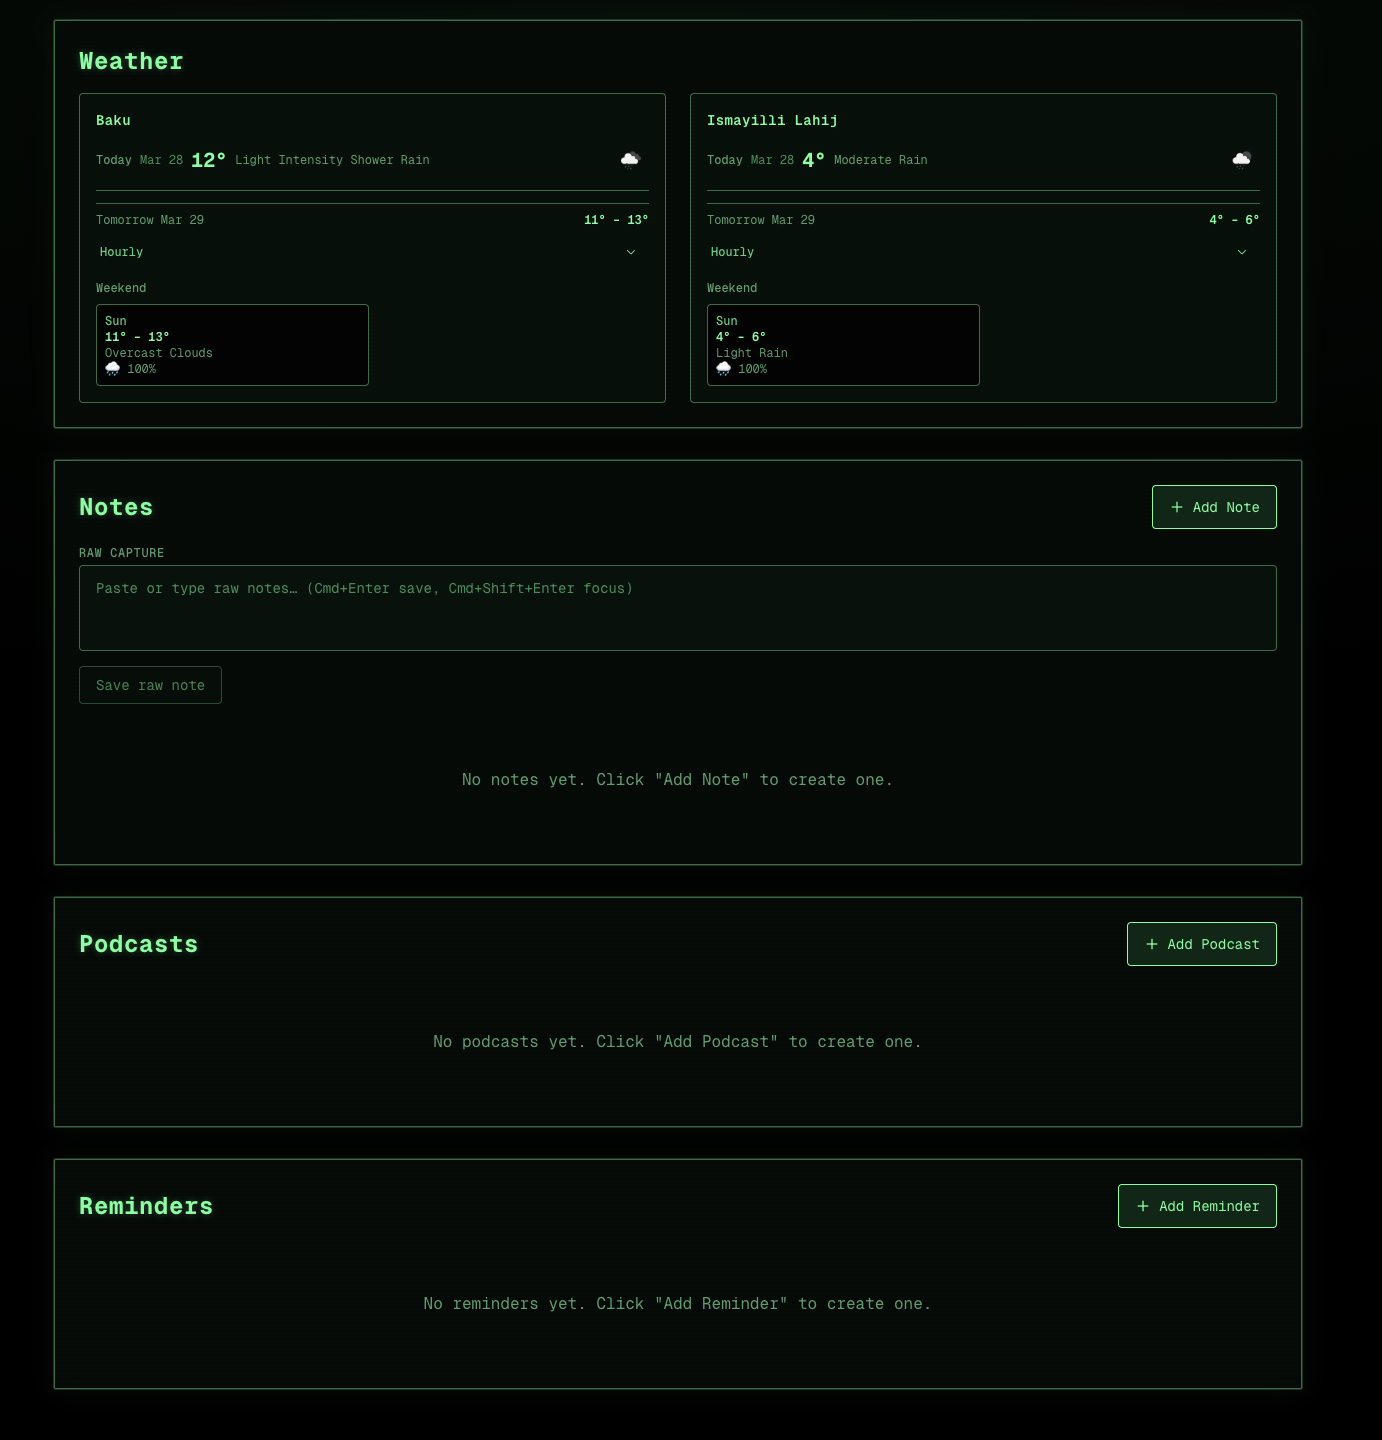
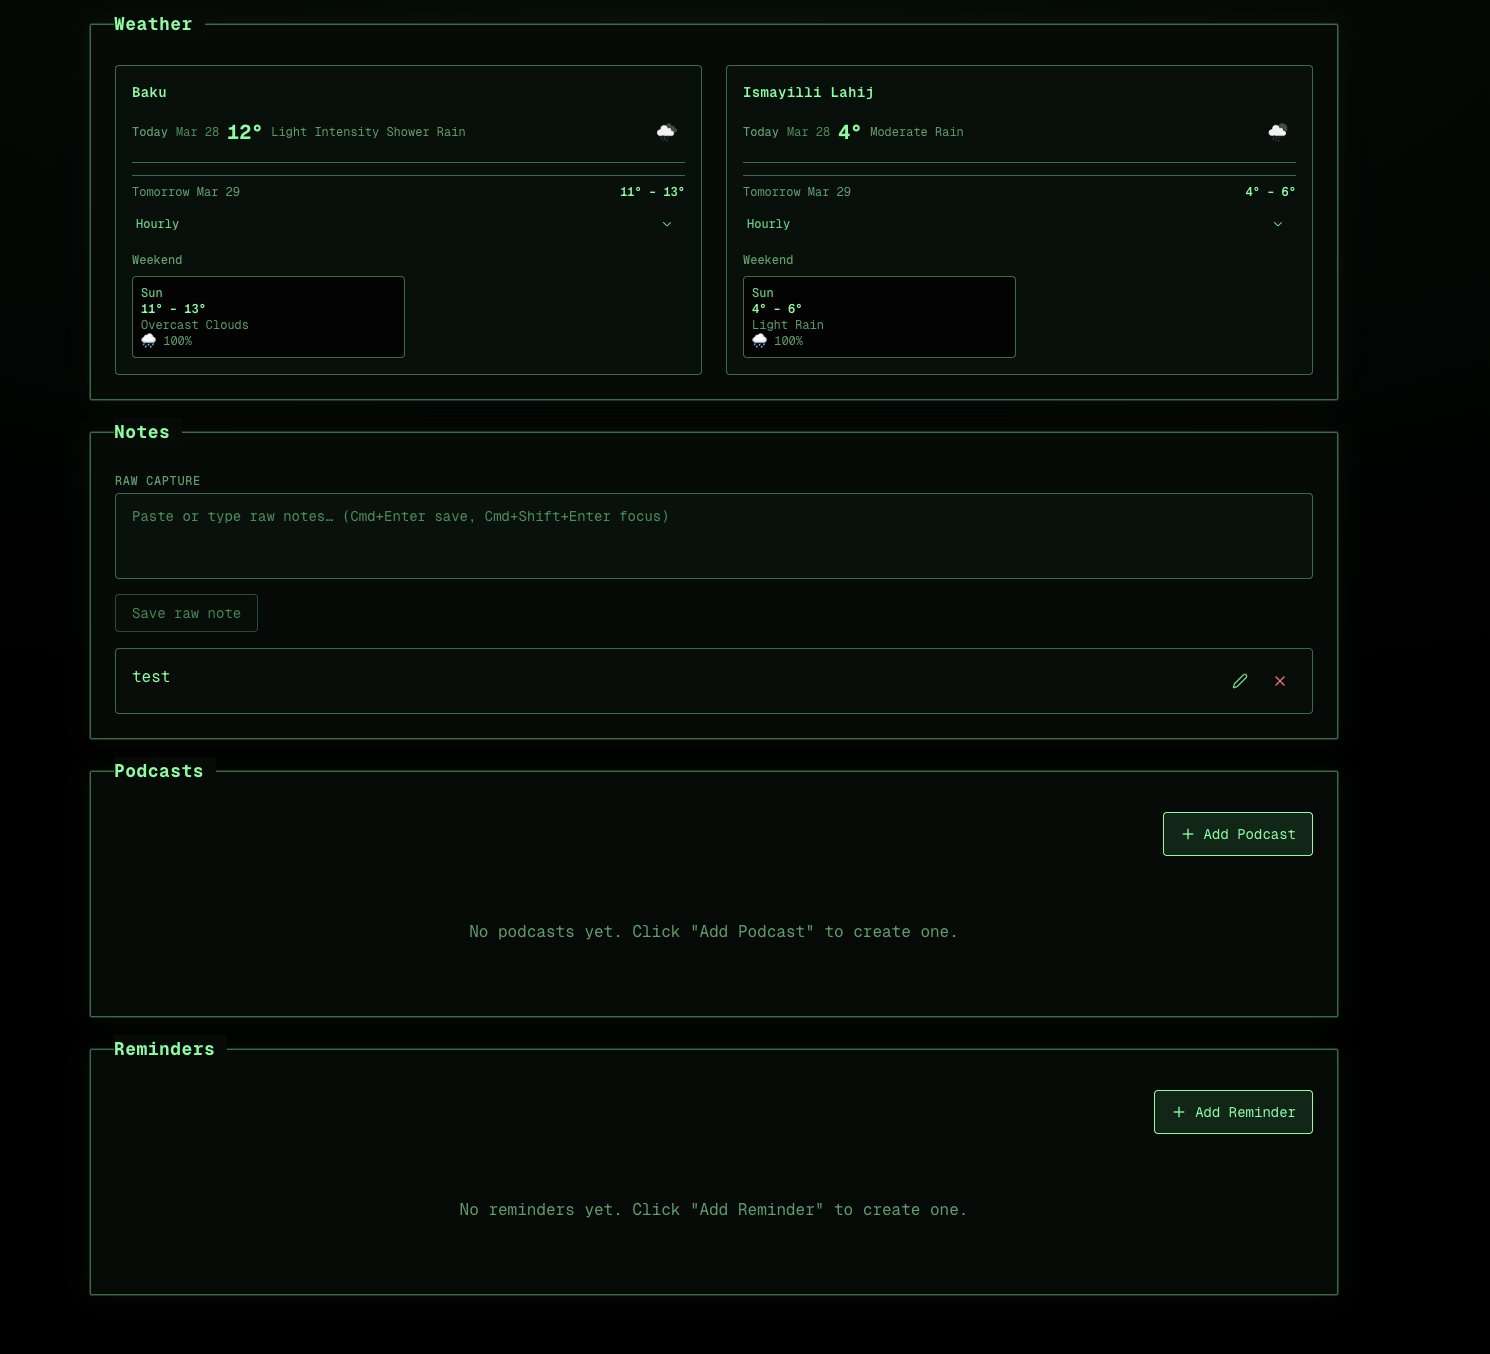
refactor: styling and readme file

diff --git a/app/components/NotesSection.tsx b/app/components/NotesSection.tsx
@@ -1,9 +1,10 @@
 "use client";
 
-import { Edit2, Plus, X } from "lucide-react";
+import { Edit2, X } from "lucide-react";
 import { useCallback, useEffect, useRef, useState } from "react";
 
 import Modal from "./Modal";
+import SectionBox from "./SectionBox";
 
 interface Note {
   id: string;
@@ -79,12 +80,6 @@ export default function NotesSection() {
     return () => window.removeEventListener("keydown", handleKeyDown, true);
   }, [saveRawNote]);
 
-  const openAddModal = () => {
-    setEditingNote(null);
-    setModalContent("");
-    setIsModalOpen(true);
-  };
-
   const openEditModal = (note: Note) => {
     setEditingNote(note);
     setModalContent(note.content);
@@ -99,31 +94,17 @@ export default function NotesSection() {
 
   const saveNote = async () => {
     const content = modalContent.trim();
-    if (!content) return;
+    if (!content || !editingNote) return;
 
     try {
-      if (editingNote) {
-        // Update existing note
-        const response = await fetch("/api/supabase/notes", {
-          method: "PUT",
-          headers: { "Content-Type": "application/json" },
-          body: JSON.stringify({ id: editingNote.id, content }),
-        });
-        if (response.ok) {
-          await fetchNotes();
-          closeModal();
-        }
-      } else {
-        // Create new note
-        const response = await fetch("/api/supabase/notes", {
-          method: "POST",
-          headers: { "Content-Type": "application/json" },
-          body: JSON.stringify({ content }),
-        });
-        if (response.ok) {
-          await fetchNotes();
-          closeModal();
-        }
+      const response = await fetch("/api/supabase/notes", {
+        method: "PUT",
+        headers: { "Content-Type": "application/json" },
+        body: JSON.stringify({ id: editingNote.id, content }),
+      });
+      if (response.ok) {
+        await fetchNotes();
+        closeModal();
       }
     } catch (error) {
       console.error("Error saving note:", error);
@@ -147,30 +128,15 @@ export default function NotesSection() {
 
   if (!isClient || loading) {
     return (
-      <div className="crt-panel rounded-sm p-4 sm:p-6">
+      <SectionBox title="Notes">
         <div className="animate-pulse h-32 bg-crt-bar-track/40 rounded-sm" />
-      </div>
+      </SectionBox>
     );
   }
 
   return (
     <>
-      <div className="crt-panel rounded-sm p-4 sm:p-6">
-        <div className="flex flex-col sm:flex-row sm:items-center sm:justify-between mb-4 gap-3">
-          <h2 className="text-xl sm:text-2xl font-bold text-crt-phosphor-bright tracking-wide">
-            Notes
-          </h2>
-          <button
-            onClick={openAddModal}
-            className="flex items-center justify-center gap-2 px-5 py-3.5 md:px-4 md:py-2 crt-btn crt-btn-primary rounded-sm transition-colors text-base md:text-sm min-h-[44px] w-full sm:w-auto"
-            aria-label="Add Note"
-          >
-            <Plus className="w-5 h-5 md:w-4 md:h-4" />
-            <span className="hidden md:inline">Add Note</span>
-            <span className="md:hidden">Add Note</span>
-          </button>
-        </div>
-
+      <SectionBox title="Notes">
         <div className="mb-4">
           <label className="block text-sm font-medium text-crt-muted mb-1 crt-text-plain uppercase tracking-wider text-xs">
             Raw capture
@@ -205,7 +171,10 @@ export default function NotesSection() {
 
         {notes.length === 0 ? (
           <div className="text-center py-12 text-crt-muted crt-text-plain">
-            <p>No notes yet. Click "Add Note" to create one.</p>
+            <p>
+              No notes yet. Type in raw capture and use Cmd+Enter (Ctrl+Enter) to
+              save.
+            </p>
           </div>
         ) : (
           <div className="space-y-3">
@@ -235,12 +204,12 @@ export default function NotesSection() {
             ))}
           </div>
         )}
-      </div>
+      </SectionBox>
 
       <Modal
         isOpen={isModalOpen}
         onClose={closeModal}
-        title={editingNote ? "Edit Note" : "Add Note"}
+        title="Edit Note"
       >
         <div className="space-y-4">
           <textarea
@@ -267,7 +236,7 @@ export default function NotesSection() {
               onClick={saveNote}
               className="px-5 py-3.5 md:px-4 md:py-2 crt-btn crt-btn-primary rounded-sm transition-colors text-base md:text-sm min-h-[44px] w-full sm:w-auto"
             >
-              {editingNote ? "Update" : "Create"}
+              Update
             </button>
           </div>
         </div>

diff --git a/app/components/DailyFocusSection.tsx b/app/components/DailyFocusSection.tsx
@@ -4,6 +4,7 @@ import { Calendar, Edit2, Plus, X } from "lucide-react";
 import { useEffect, useState } from "react";
 
 import Modal from "./Modal";
+import SectionBox from "./SectionBox";
 import { format } from "date-fns";
 
 interface DailyFocus {
@@ -129,19 +130,17 @@ export default function DailyFocusSection() {
 
   if (!isClient || loading) {
     return (
-      <div className="crt-panel rounded-sm p-4 sm:p-6">
+      <SectionBox title="Reminders">
         <div className="animate-pulse h-32 bg-crt-bar-track/40 rounded-sm" />
-      </div>
+      </SectionBox>
     );
   }
 
   return (
     <>
-      <div className="crt-panel rounded-sm p-4 sm:p-6">
-        <div className="flex flex-col sm:flex-row sm:items-center sm:justify-between mb-4 gap-3">
-          <h2 className="text-xl sm:text-2xl font-bold text-crt-phosphor-bright tracking-wide">
-            Reminders
-          </h2>
+      <SectionBox
+        title="Reminders"
+        toolbar={
           <button
             onClick={openAddModal}
             className="flex items-center justify-center gap-2 px-5 py-3.5 md:px-4 md:py-2 crt-btn crt-btn-primary rounded-sm transition-colors text-base md:text-sm min-h-[44px] w-full sm:w-auto"
@@ -151,8 +150,8 @@ export default function DailyFocusSection() {
             <span className="hidden md:inline">Add Reminder</span>
             <span className="md:hidden">Add Reminder</span>
           </button>
-        </div>
-
+        }
+      >
         {focusItems.length === 0 ? (
           <div className="text-center py-12 text-crt-muted crt-text-plain">
             <p>No reminders yet. Click "Add Reminder" to create one.</p>
@@ -215,7 +214,7 @@ export default function DailyFocusSection() {
             ))}
           </div>
         )}
-      </div>
+      </SectionBox>
 
       <Modal
         isOpen={isModalOpen}

diff --git a/app/components/PodcastsSection.tsx b/app/components/PodcastsSection.tsx
@@ -4,6 +4,7 @@ import { Edit2, ExternalLink, Plus, X } from "lucide-react";
 import { useEffect, useState } from "react";
 
 import Modal from "./Modal";
+import SectionBox from "./SectionBox";
 
 interface Podcast {
   id: string;
@@ -146,19 +147,17 @@ export default function PodcastsSection() {
 
   if (!isClient || loading) {
     return (
-      <div className="crt-panel rounded-sm p-4 sm:p-6">
+      <SectionBox title="Podcasts">
         <div className="animate-pulse h-32 bg-crt-bar-track/40 rounded-sm" />
-      </div>
+      </SectionBox>
     );
   }
 
   return (
     <>
-      <div className="crt-panel rounded-sm p-4 sm:p-6">
-        <div className="flex flex-col sm:flex-row sm:items-center sm:justify-between mb-4 gap-3">
-          <h2 className="text-xl sm:text-2xl font-bold text-crt-phosphor-bright tracking-wide">
-            Podcasts
-          </h2>
+      <SectionBox
+        title="Podcasts"
+        toolbar={
           <button
             onClick={openAddModal}
             className="flex items-center justify-center gap-2 px-5 py-3.5 md:px-4 md:py-2 crt-btn crt-btn-primary rounded-sm transition-colors text-base md:text-sm min-h-[44px] w-full sm:w-auto"
@@ -168,8 +167,8 @@ export default function PodcastsSection() {
             <span className="hidden md:inline">Add Podcast</span>
             <span className="md:hidden">Add Podcast</span>
           </button>
-        </div>
-
+        }
+      >
         {podcasts.length === 0 ? (
           <div className="text-center py-12 text-crt-muted crt-text-plain">
             <p>No podcasts yet. Click "Add Podcast" to create one.</p>
@@ -226,7 +225,7 @@ export default function PodcastsSection() {
             ))}
           </div>
         )}
-      </div>
+      </SectionBox>
 
       <Modal
         isOpen={isModalOpen}

diff --git a/app/components/WeatherSection.tsx b/app/components/WeatherSection.tsx
@@ -1,6 +1,8 @@
 "use client";
 
 import { useEffect, useState } from "react";
+
+import SectionBox from "./SectionBox";
 import { format } from "date-fns";
 
 interface HourlyWeather {
@@ -275,13 +277,15 @@ export default function WeatherSection() {
 
   if (loading) {
     return (
-      <div className="crt-panel rounded-sm p-4 sm:p-6 animate-pulse h-48 border-crt-border" />
+      <SectionBox title="Weather">
+        <div className="animate-pulse h-48 bg-crt-bar-track/40 rounded-sm border border-crt-border" />
+      </SectionBox>
     );
   }
 
   if (error || !weather) {
     return (
-      <div className="crt-panel rounded-sm p-4 sm:p-6">
+      <SectionBox title="Weather">
         <div className="flex items-center justify-between gap-4">
           <p className="text-crt-danger font-medium text-sm crt-text-plain">
             {error || "Failed to load weather"}
@@ -294,19 +298,16 @@ export default function WeatherSection() {
             Retry
           </button>
         </div>
-      </div>
+      </SectionBox>
     );
   }
 
   return (
-    <div className="crt-panel rounded-sm p-4 sm:p-6">
-      <h2 className="text-xl sm:text-2xl font-bold text-crt-phosphor-bright mb-4 tracking-wide">
-        Weather
-      </h2>
+    <SectionBox title="Weather">
       <div className="grid grid-cols-1 md:grid-cols-2 gap-6">
         <WeatherPlaceCard data={weather.baku} />
         <WeatherPlaceCard data={weather.lahij} />
       </div>
-    </div>
+    </SectionBox>
   );
 }

diff --git a/app/components/SectionBox.tsx b/app/components/SectionBox.tsx
@@ -1,0 +1,26 @@
+import type { ReactNode } from "react";
+
+type SectionBoxProps = {
+  title: string;
+  children: ReactNode;
+  /** Shown inside the panel below the top border (e.g. primary action aligned end). */
+  toolbar?: ReactNode;
+};
+
+export default function SectionBox({ title, children, toolbar }: SectionBoxProps) {
+  return (
+    <div className="relative">
+      <h2 className="absolute left-4 top-0 z-10 -translate-y-1/2 pr-3 sm:left-6 max-w-[calc(100%-2rem)] truncate text-left text-base font-bold tracking-wide text-crt-phosphor-bright sm:text-lg crt-text-plain bg-crt-panel">
+        {title}
+      </h2>
+      <div className="crt-panel relative z-0 rounded-sm p-4 pt-8 sm:p-6 sm:pt-10">
+        {toolbar ? (
+          <div className="flex flex-col sm:flex-row sm:justify-end mb-4 gap-3">
+            {toolbar}
+          </div>
+        ) : null}
+        {children}
+      </div>
+    </div>
+  );
+}

diff --git a/README.md b/README.md
@@ -1,8 +1,8 @@
 # Personal Dashboard
 
 Private Next.js dashboard with a green CRT-style UI.
-![Dashboard Old Style](public/dashboard-old-style.png)
-![Dashboard New Style](public/dashboard-new-style.png)
+![Dashboard Old Style](./dashboard-old-style.png)
+![Dashboard New Style](./dashboard-new-style.png)
 
 ## Run locally
 
